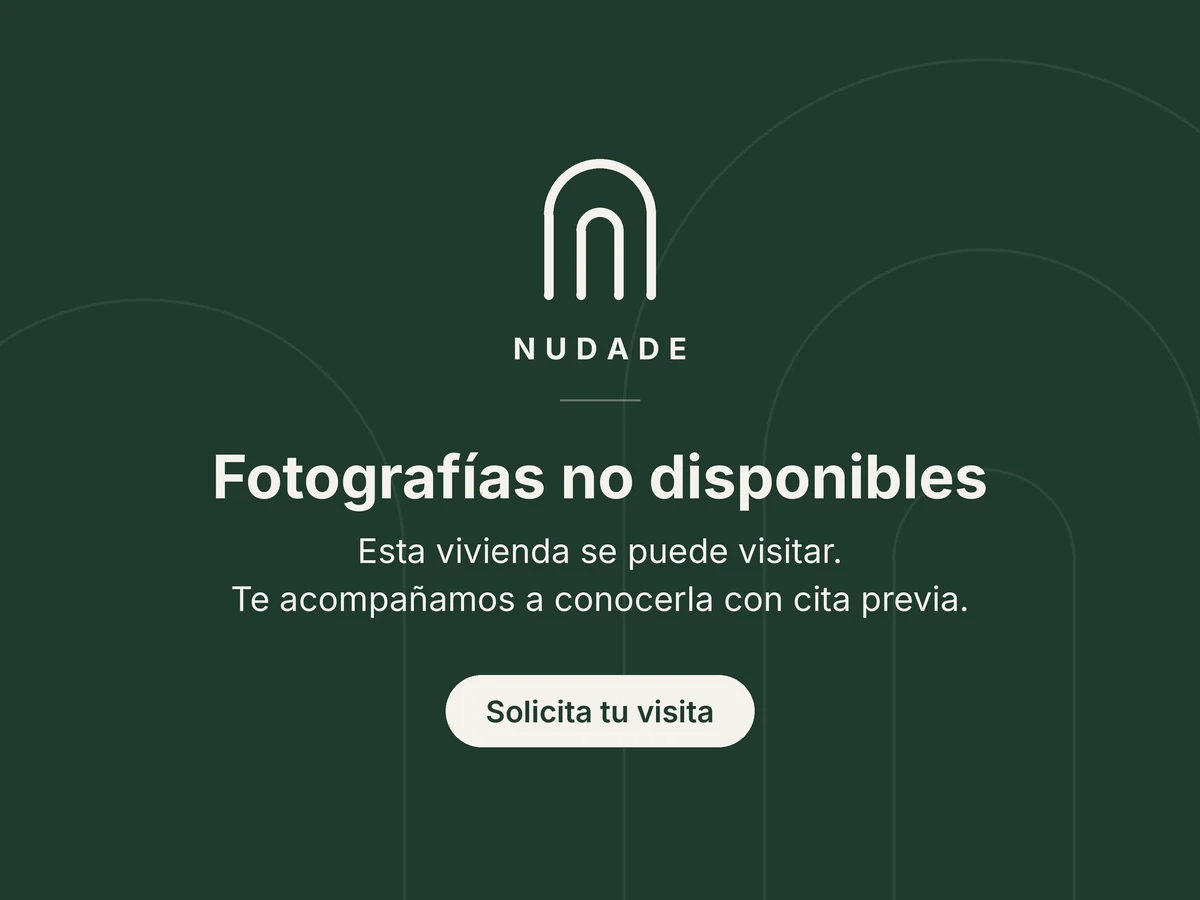
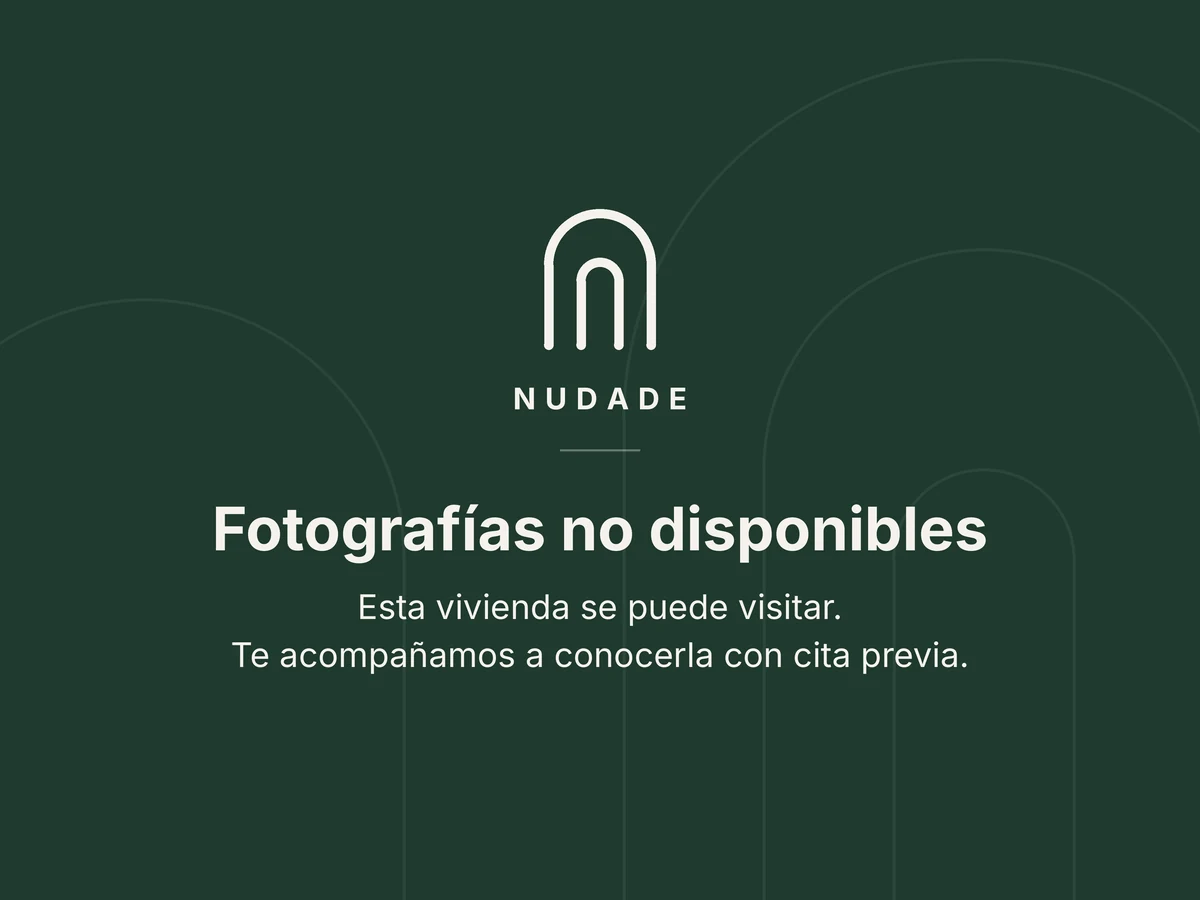
Galería de fotos en tarjetas; Aribau con 5 fotos; imagen Guinardó sin botón (#6)
- Tarjetas (home y viviendas.html): campo opcional fotos[] con galería deslizable
  (flechas, swipe y contador). Si solo hay una foto, se muestra como antes.
- Sant Gervasi - Galvany: 5 fotos (vistas, salón, dormitorio, cocina, baño).
- El Guinardó: imagen de marca sin la pastilla que parecía un botón.

Claude-Session: https://claude.ai/code/session_011mmg3LtQPjycWfAeFBTrDL

Changed region(s): [[0.1542, 0.4978, 0.8325, 0.84], [0.4317, 0.1556, 0.5858, 0.4044], [0.4317, 0.4356, 0.5858, 0.4667]]

diff --git a/viviendas.html b/viviendas.html
@@ -32,6 +32,7 @@
   ul{list-style:none}
   a{text-decoration:none;color:inherit}
   ::selection{background:#1F3A2E;color:#F5F2EC}
+  .ndGal::-webkit-scrollbar{display:none}
 </style>
 </helmet>
 
@@ -215,6 +216,16 @@ class Component extends DCLogic {
     let VIVIENDAS = [];
 
     const grid = $('#ndVivGrid'), countEl = $('#ndCount'), emptyEl = $('#ndEmpty');
+    const wireGal = (root) => {
+      root.querySelectorAll('.ndGalWrap').forEach(w => {
+        if (w.dataset.wired) return; w.dataset.wired = '1';
+        const g = w.querySelector('.ndGal'), c = w.querySelector('.ndGalC'), n = g.children.length;
+        const go = (d) => g.scrollBy({ left: d * g.clientWidth, behavior: 'smooth' });
+        w.querySelector('.ndGalP').addEventListener('click', (e) => { e.preventDefault(); e.stopPropagation(); go(-1); });
+        w.querySelector('.ndGalN').addEventListener('click', (e) => { e.preventDefault(); e.stopPropagation(); go(1); });
+        g.addEventListener('scroll', () => { c.textContent = (Math.round(g.scrollLeft / g.clientWidth) + 1) + ' / ' + n; }, { passive: true });
+      });
+    };
     const card = (v) => {
       const owners = v.propietarios || [];
       const ownerLabel = owners.length > 1 ? owners.length + ' usufructuarios' : '1 usufructuario';
@@ -232,9 +243,19 @@ class Component extends DCLogic {
         ? '<span style="position:absolute;top:0;right:0;width:132px;height:132px;overflow:hidden;pointer-events:none"><span style="position:absolute;top:36px;left:50%;width:184px;margin-left:-92px;text-align:center;transform:rotate(45deg);background:' + (sold ? '#1F3A2E' : '#C25A48') + ';color:#F5F2EC;font-size:12px;font-weight:700;letter-spacing:.1em;padding:7px 0;box-shadow:0 6px 18px -6px rgba(15,22,18,.5)">' + (sold ? 'VENDIDO' : 'RESERVADO') + '</span></span>'
         : '';
       const imgF = sold ? ';filter:grayscale(.55) brightness(.82)' : '';
-      const media = v.foto
-        ? '<div style="position:relative;aspect-ratio:4/3;overflow:hidden"><img src="' + v.foto + '" alt="' + (v.titulo || v.localidad || 'Vivienda') + '" loading="lazy" style="width:100%;height:100%;object-fit:cover' + imgF + '">'
-        : '<div style="position:relative;aspect-ratio:4/3;overflow:hidden;background:repeating-linear-gradient(135deg,#ECE7DD,#ECE7DD 12px,#E4DED2 12px,#E4DED2 24px);display:flex;align-items:flex-end;justify-content:center;padding:18px"><span style="font-family:ui-monospace,monospace;font-size:11.5px;color:#5A6B7D;background:rgba(245,242,236,.9);padding:6px 11px;border-radius:5px">foto · ' + (v.localidad || '') + '</span>';
+      const fotos = (v.fotos && v.fotos.length) ? v.fotos : (v.foto ? [v.foto] : []);
+      const alt = (v.titulo || v.localidad || 'Vivienda');
+      const media = fotos.length > 1
+        ? '<div class="ndGalWrap" style="position:relative;aspect-ratio:4/3;overflow:hidden">'
+          + '<div class="ndGal" style="position:absolute;top:0;left:0;right:0;bottom:0;display:flex;overflow-x:auto;overflow-y:hidden;scroll-snap-type:x mandatory;scrollbar-width:none;-ms-overflow-style:none;-webkit-overflow-scrolling:touch">'
+          + fotos.map((f, i) => '<img src="' + f + '" alt="' + alt + ' (foto ' + (i + 1) + ' de ' + fotos.length + ')" loading="' + (i ? 'lazy' : 'eager') + '" style="flex:0 0 100%;width:100%;height:100%;object-fit:cover;scroll-snap-align:start' + imgF + '">').join('')
+          + '</div>'
+          + '<button class="ndGalP" aria-label="Foto anterior" style="position:absolute;left:10px;top:50%;transform:translateY(-50%);width:36px;height:36px;border-radius:50%;border:none;background:rgba(245,242,236,.92);color:#1F3A2E;font-size:22px;line-height:1;cursor:pointer;display:flex;align-items:center;justify-content:center;box-shadow:0 4px 14px -4px rgba(15,22,18,.45)">&lsaquo;</button>'
+          + '<button class="ndGalN" aria-label="Foto siguiente" style="position:absolute;right:10px;top:50%;transform:translateY(-50%);width:36px;height:36px;border-radius:50%;border:none;background:rgba(245,242,236,.92);color:#1F3A2E;font-size:22px;line-height:1;cursor:pointer;display:flex;align-items:center;justify-content:center;box-shadow:0 4px 14px -4px rgba(15,22,18,.45)">&rsaquo;</button>'
+          + '<span class="ndGalC" style="position:absolute;right:12px;bottom:12px;background:rgba(15,22,18,.62);color:#F5F2EC;font-size:12px;font-weight:600;letter-spacing:.04em;padding:5px 10px;border-radius:999px;pointer-events:none">1 / ' + fotos.length + '</span>'
+        : fotos.length
+          ? '<div style="position:relative;aspect-ratio:4/3;overflow:hidden"><img src="' + fotos[0] + '" alt="' + alt + '" loading="lazy" style="width:100%;height:100%;object-fit:cover' + imgF + '">'
+          : '<div style="position:relative;aspect-ratio:4/3;overflow:hidden;background:repeating-linear-gradient(135deg,#ECE7DD,#ECE7DD 12px,#E4DED2 12px,#E4DED2 24px);display:flex;align-items:flex-end;justify-content:center;padding:18px"><span style="font-family:ui-monospace,monospace;font-size:11.5px;color:#5A6B7D;background:rgba(245,242,236,.9);padding:6px 11px;border-radius:5px">foto · ' + (v.localidad || '') + '</span>';
       const rentaHtml = v.renta
         ? '<div style="display:flex;flex-direction:column;gap:3px;text-align:right"><span style="font-size:11px;text-transform:uppercase;letter-spacing:.08em;color:#5A6B7D">Renta</span><span style="font-size:1.25rem;font-weight:700;color:#1F3A2E;line-height:1.1">' + v.renta.replace('/mes', '') + '<small style="font-size:12px;font-weight:500;color:#5A6B7D">/mes</small></span></div>'
         : '<div style="display:flex;flex-direction:column;gap:3px;text-align:right"><span style="font-size:11px;text-transform:uppercase;letter-spacing:.08em;color:#5A6B7D">Modalidad</span><span style="font-size:1rem;font-weight:700;color:#1F3A2E;line-height:1.25">Pago único</span></div>';
@@ -262,6 +283,7 @@ class Component extends DCLogic {
       const order = { disponible: 0, reservada: 1, vendida: 2 };
       const list = VIVIENDAS.slice().sort((a, b) => (order[a.estado || 'disponible'] - order[b.estado || 'disponible']) || ((a.orden || 99) - (b.orden || 99)));
       grid.innerHTML = list.map(card).join('');
+      wireGal(grid);
       const disp = list.filter(v => (v.estado || 'disponible') === 'disponible').length;
       countEl.textContent = disp + (disp === 1 ? ' vivienda disponible' : ' viviendas disponibles');
       emptyEl.style.display = list.length ? 'none' : 'block';

diff --git a/index.html b/index.html
@@ -41,6 +41,7 @@
     #ndNav{backdrop-filter:none !important;-webkit-backdrop-filter:none !important;background:#F5F2EC !important;box-shadow:0 1px 0 rgba(31,58,46,.08)}
     #ndCallOverlay{backdrop-filter:none !important;-webkit-backdrop-filter:none !important;background:rgba(15,22,18,.7) !important}
   }
+  .ndGal::-webkit-scrollbar{display:none}
 </style>
 </helmet>
 
@@ -938,6 +939,16 @@ class Component extends DCLogic {
 
     /* ---------- VIVIENDAS (datos externos: viviendas.json) ---------- */
     const grid = $('#ndVivGrid');
+    const wireGal = (root) => {
+      root.querySelectorAll('.ndGalWrap').forEach(w => {
+        if (w.dataset.wired) return; w.dataset.wired = '1';
+        const g = w.querySelector('.ndGal'), c = w.querySelector('.ndGalC'), n = g.children.length;
+        const go = (d) => g.scrollBy({ left: d * g.clientWidth, behavior: 'smooth' });
+        w.querySelector('.ndGalP').addEventListener('click', (e) => { e.preventDefault(); e.stopPropagation(); go(-1); });
+        w.querySelector('.ndGalN').addEventListener('click', (e) => { e.preventDefault(); e.stopPropagation(); go(1); });
+        g.addEventListener('scroll', () => { c.textContent = (Math.round(g.scrollLeft / g.clientWidth) + 1) + ' / ' + n; }, { passive: true });
+      });
+    };
     const vivCard = (v) => {
       const owners = v.propietarios || [];
       const ownerLabel = owners.length > 1 ? owners.length + ' usufructuarios' : '1 usufructuario';
@@ -950,9 +961,19 @@ class Component extends DCLogic {
         : '';
       const imgF = sold ? ';filter:grayscale(.55) brightness(.82)' : '';
       const ctaTxt = sold ? 'Ver viviendas similares' : 'Solicitar informaci\u00f3n';
-      const media = v.foto
-        ? '<div style="position:relative;aspect-ratio:4/3;overflow:hidden"><img src="' + v.foto + '" alt="' + (v.titulo || v.localidad || 'Vivienda') + '" loading="lazy" style="width:100%;height:100%;object-fit:cover' + imgF + '">'
-        : '<div style="position:relative;aspect-ratio:4/3;overflow:hidden;background:repeating-linear-gradient(135deg,#ECE7DD,#ECE7DD 12px,#E4DED2 12px,#E4DED2 24px);display:flex;align-items:flex-end;justify-content:center;padding:18px"><span style="font-family:ui-monospace,monospace;font-size:11.5px;color:#5A6B7D;background:rgba(245,242,236,.9);padding:6px 11px;border-radius:5px">foto \u00b7 ' + (v.localidad || '') + '</span>';
+      const fotos = (v.fotos && v.fotos.length) ? v.fotos : (v.foto ? [v.foto] : []);
+      const alt = (v.titulo || v.localidad || 'Vivienda');
+      const media = fotos.length > 1
+        ? '<div class="ndGalWrap" style="position:relative;aspect-ratio:4/3;overflow:hidden">'
+          + '<div class="ndGal" style="position:absolute;top:0;left:0;right:0;bottom:0;display:flex;overflow-x:auto;overflow-y:hidden;scroll-snap-type:x mandatory;scrollbar-width:none;-ms-overflow-style:none;-webkit-overflow-scrolling:touch">'
+          + fotos.map((f, i) => '<img src="' + f + '" alt="' + alt + ' (foto ' + (i + 1) + ' de ' + fotos.length + ')" loading="' + (i ? 'lazy' : 'eager') + '" style="flex:0 0 100%;width:100%;height:100%;object-fit:cover;scroll-snap-align:start' + imgF + '">').join('')
+          + '</div>'
+          + '<button class="ndGalP" aria-label="Foto anterior" style="position:absolute;left:10px;top:50%;transform:translateY(-50%);width:36px;height:36px;border-radius:50%;border:none;background:rgba(245,242,236,.92);color:#1F3A2E;font-size:22px;line-height:1;cursor:pointer;display:flex;align-items:center;justify-content:center;box-shadow:0 4px 14px -4px rgba(15,22,18,.45)">&lsaquo;</button>'
+          + '<button class="ndGalN" aria-label="Foto siguiente" style="position:absolute;right:10px;top:50%;transform:translateY(-50%);width:36px;height:36px;border-radius:50%;border:none;background:rgba(245,242,236,.92);color:#1F3A2E;font-size:22px;line-height:1;cursor:pointer;display:flex;align-items:center;justify-content:center;box-shadow:0 4px 14px -4px rgba(15,22,18,.45)">&rsaquo;</button>'
+          + '<span class="ndGalC" style="position:absolute;right:12px;bottom:12px;background:rgba(15,22,18,.62);color:#F5F2EC;font-size:12px;font-weight:600;letter-spacing:.04em;padding:5px 10px;border-radius:999px;pointer-events:none">1 / ' + fotos.length + '</span>'
+        : fotos.length
+          ? '<div style="position:relative;aspect-ratio:4/3;overflow:hidden"><img src="' + fotos[0] + '" alt="' + alt + '" loading="lazy" style="width:100%;height:100%;object-fit:cover' + imgF + '">'
+          : '<div style="position:relative;aspect-ratio:4/3;overflow:hidden;background:repeating-linear-gradient(135deg,#ECE7DD,#ECE7DD 12px,#E4DED2 12px,#E4DED2 24px);display:flex;align-items:flex-end;justify-content:center;padding:18px"><span style="font-family:ui-monospace,monospace;font-size:11.5px;color:#5A6B7D;background:rgba(245,242,236,.9);padding:6px 11px;border-radius:5px">foto · ' + (v.localidad || '') + '</span>';
       const amen = [];
       if (v.habitaciones) amen.push(v.habitaciones + ' hab.');
       if (v.superficie) amen.push(v.superficie);
@@ -1011,6 +1032,7 @@ class Component extends DCLogic {
           const list = destacadas.length ? destacadas : all.slice(0, 3);
           grid.innerHTML = list.map(vivCard).join('');
           wireVivGrid();
+          wireGal(grid);
         })
         .catch(() => {});
     }
